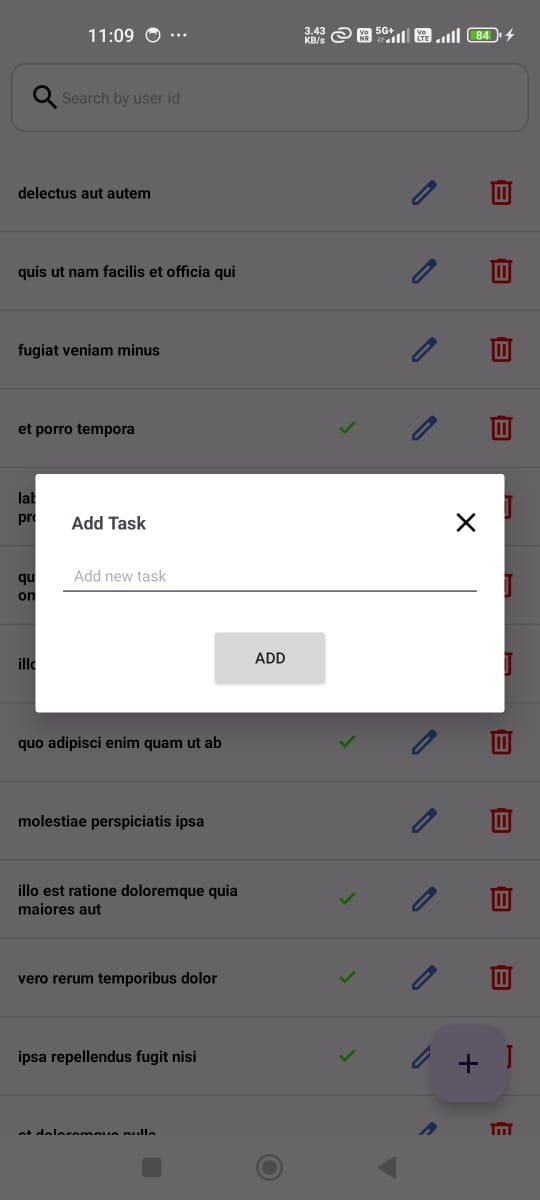
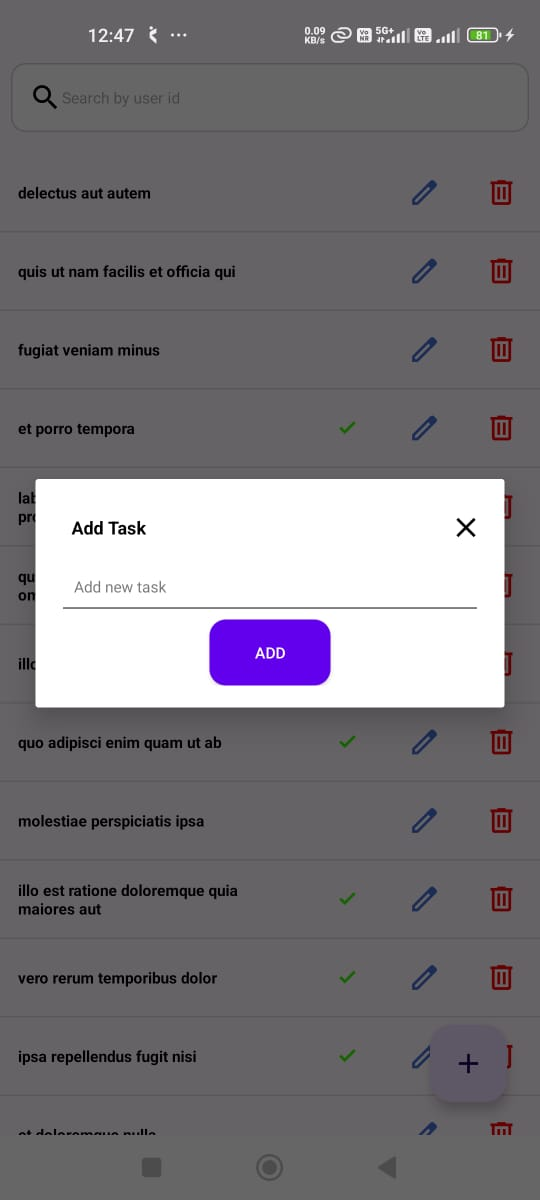
Add checkbox for marking task as completed while updating

diff --git a/app/src/main/java/com/gsm/taskmaster/ui/AddUpdateTodoDialogFragment.kt b/app/src/main/java/com/gsm/taskmaster/ui/AddUpdateTodoDialogFragment.kt
@@ -4,6 +4,7 @@ import android.app.AlertDialog
 import android.app.Dialog
 import android.os.Build
 import android.os.Bundle
+import android.view.View
 import androidx.fragment.app.DialogFragment
 import com.gsm.taskmaster.R
 import com.gsm.taskmaster.data.model.TodoItem
@@ -54,25 +55,22 @@ class AddUpdateTodoDialogFragment : DialogFragment() {
         val position = arguments?.getInt(AppConstants.ADAPTER_POSITION)
 
         binding.apply {
-            tvTitle.text = if (action == AppConstants.ACTION_ADD)
-                getString(R.string.add_task)
-            else
-                getString(R.string.update_task)
-
-            if (action == AppConstants.ACTION_UPDATE) {
-                etNewTask.setText(todoItem?.title ?: "")
-            } else {
+            if (action == AppConstants.ACTION_ADD) {
+                tvTitle.text = getString(R.string.add_task)
                 etNewTask.hint = getString(R.string.add_new_task)
+                btnAddUpdate.text = getString(R.string.add)
+                cbCompleted.visibility = View.GONE
+            } else {
+                tvTitle.text = getString(R.string.update_task)
+                etNewTask.setText(todoItem?.title ?: "")
+                btnAddUpdate.text = getString(R.string.update)
+                cbCompleted.visibility = View.VISIBLE
+                cbCompleted.isChecked = todoItem?.completed ?: false
             }
 
             ivClose.setOnClickListener {
                 dismiss()
             }
-
-            btnAddUpdate.text = if (action == AppConstants.ACTION_ADD)
-                getString(R.string.add)
-            else
-                getString(R.string.update)
 
             btnAddUpdate.setOnClickListener {
                 // Handle add/update logic
@@ -86,7 +84,7 @@ class AddUpdateTodoDialogFragment : DialogFragment() {
                     itemClickListener.invoke(action, 0, todoItem)
                 } else {
                     val todoItem = TodoItem(
-                        completed = false,
+                        completed = cbCompleted.isChecked,
                         id = todoItem?.id ?: 0,
                         title = etNewTask.text.toString(),
                         userId = todoItem?.userId ?: 0
